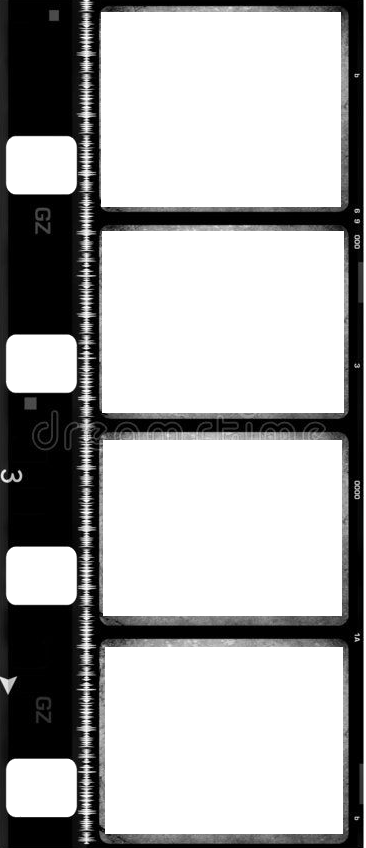
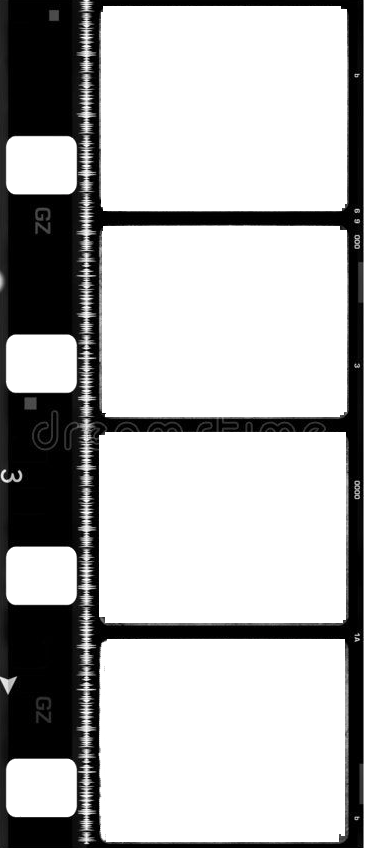
updated strip designs

diff --git a/src/components/Photobooth.jsx b/src/components/Photobooth.jsx
@@ -20,6 +20,7 @@ const designOverlaysByLayout = {
     { key: "1shot-design7", url: "/photobooth-web/designs/1shot-design7.png" },
     { key: "1shot-design8", url: "/photobooth-web/designs/1shot-design8.png" },
     { key: "1shot-design9", url: "/photobooth-web/designs/1shot-design9.png" },
+    { key: "1shot-design10", url: "/photobooth-web/designs/1shot-design10.png" },
 
   ],
   3: [

diff --git a/src/components/frameMappings.js b/src/components/frameMappings.js
@@ -73,6 +73,15 @@ const frameMappings = {
     ],
   },
 
+  "1shot-design10": {
+    frame: "/photobooth-web/designs/1shot-design10.png",
+    frameWidth: 500,
+    frameHeight: 330,
+    windows: [
+      { left: 35, top: 55, width: 200, height: 235, borderRadius: 0 }
+    ],
+  },
+
   "3shot-design1": {
     frame: "/photobooth-web/designs/3shot-design1.png",
     frameWidth: 450,
